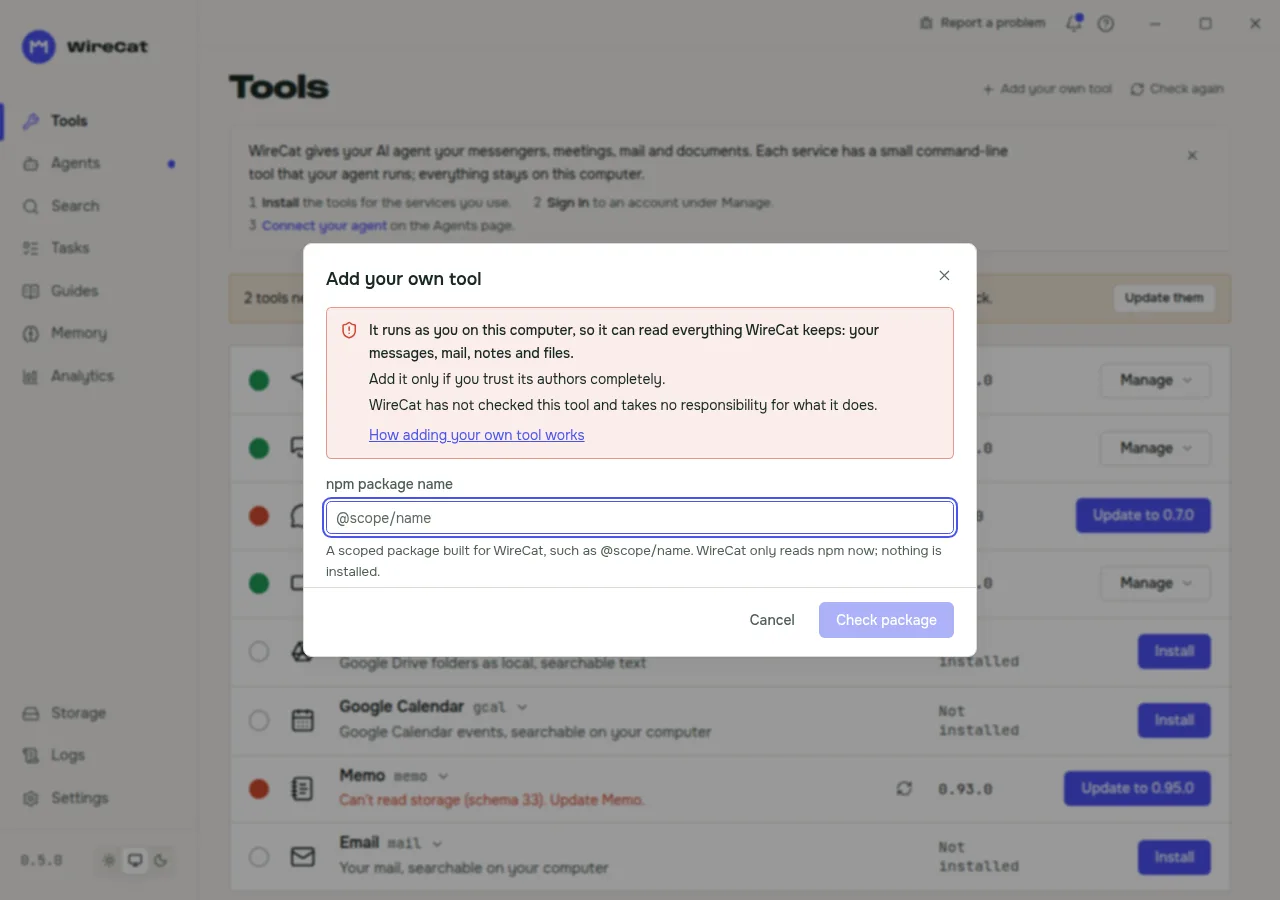
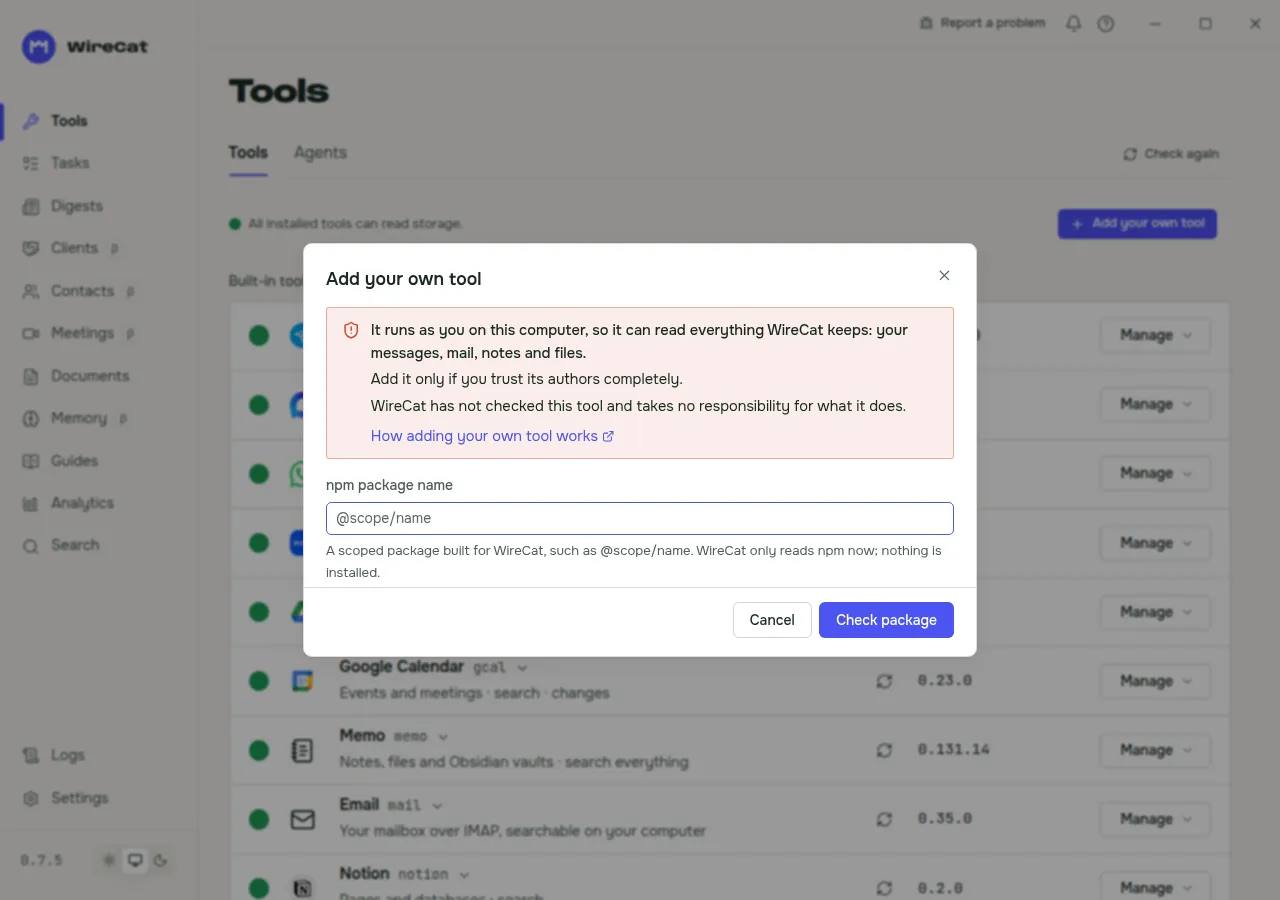
docs(readme): own-tool screenshots from Desktop 0.7.5 (#468)
* docs(readme): own-tool screenshots from Desktop 0.7.5

The six "Add your own tool" screenshots in the README were taken from
0.5.0 and showed the old sidebar (Agents, Search and Storage as pages)
and the old Tools page with its intro banner.

- Retaken from main (0.7.5) in the browser build with ?showcase, light
  and dark, same sizes as before: own-name, own-review,
  own-review-risky, own-check, own-refused and own-tools-list.
- The showcase mock gives Acme CRM (?own=1) a version, so its row starts
  like the others instead of saying "Does not start", which read as a
  fault.
- The own-tools-list alt text names the "Tools WireCat has not checked"
  section the tool now sits under.

search-hit, tools, tasks, memory, connect and own-settings stay: they
were retaken from 0.7.4 in #454 and show the current sidebar.

* fix(mock): give Acme CRM its version only under ?showcase&own=1

The shared SHOWCASE_VERSIONS map feeds every showcase run, and several
mock calls loop over the installed tools, so a fake acmecrm entry would
reach Logs, storage checks and other website screenshots.

---------

diff --git a/src/platform/mock.ts b/src/platform/mock.ts
@@ -345,6 +345,8 @@ export function createMock(os: Platform["os"]): Platform {
   const accounts = params.get("accounts")
   if (accounts && !installed.has(accounts)) installed.set(accounts, LATEST[ownerId(accounts)] ?? "1.0.0")
   if (params.has("ydisk-folders")) installed.set("ydisk", LATEST.ydisk ?? "1.0.0")
+  // The own tool `?own=1` lists starts in the website's screenshots, so its row does not read as a fault.
+  if (showcase && params.get("own") === "1") installed.set("acmecrm", "0.3.0")
   const asksArchive = () => ["tg", "wa", "max"].find((id) => installed.has(id)) ?? null
   const backups = backupMock(asksArchive)
   const agents = agentsMock((id) => installed.get(id), os)

diff --git a/README.md b/README.md
@@ -254,7 +254,7 @@ the same name again.
 
 | | |
 | --- | --- |
-| <picture><source media="(prefers-color-scheme: dark)" srcset="docs/images/own-refused-dark.webp"><img src="docs/images/own-refused-light.webp" width="480" alt="A refusal: Tool not found, npm has no package named @leemour/acme-crm-clis"></picture> | <picture><source media="(prefers-color-scheme: dark)" srcset="docs/images/own-tools-list-dark.webp"><img src="docs/images/own-tools-list-light.webp" width="480" alt="The Tools page with Acme CRM, added by you, marked Not verified"></picture> |
+| <picture><source media="(prefers-color-scheme: dark)" srcset="docs/images/own-refused-dark.webp"><img src="docs/images/own-refused-light.webp" width="480" alt="A refusal: Tool not found, npm has no package named @leemour/acme-crm-clis"></picture> | <picture><source media="(prefers-color-scheme: dark)" srcset="docs/images/own-tools-list-dark.webp"><img src="docs/images/own-tools-list-light.webp" width="480" alt="The Tools page: Acme CRM under Tools WireCat has not checked, marked Not verified"></picture> |
 | **A refusal** names the reason and what to do. | **An added tool** on the Tools page, marked **Not verified**. |
 
 The full guide is on [wirecat.dev](https://wirecat.dev/en/docs/desktop#add-your-own-tool).
